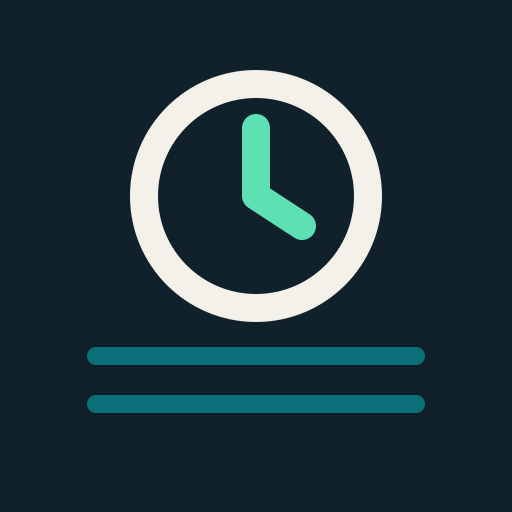
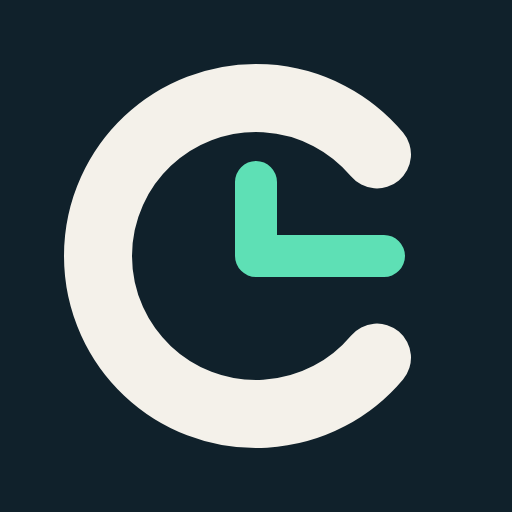
0.6.2: nuova icona, la C-orologio
- La C di ClockWork è un quadrante aperto: arco carta su inchiostro, la
  lancetta dei minuti (menta) esce dall'apertura. Sostituisce l'orologio
  con le corsie, troppo simile a un'app Orologio qualsiasi.
- icon.svg è la sorgente; icon-192/512 e apple-touch-icon ne sono il rendering.
- favicon.svg è la stessa C con tratti appena più spessi (arco 76, lancette 48
  su 512) e angoli arrotondati, leggibile a 16px.
- icon-maskable-512.png: la C all'86%, dentro il cerchio sicuro di Android.

Claude-Session: https://claude.ai/code/session_01ExZU6gBQMKCBRzjhQvUXD3

Changed region(s): [[0.125, 0.125, 0.8438, 0.875]]

diff --git a/vite.config.ts b/vite.config.ts
@@ -33,7 +33,7 @@ export default defineConfig({
         icons: [
           { src: 'icon-192.png', sizes: '192x192', type: 'image/png' },
           { src: 'icon-512.png', sizes: '512x512', type: 'image/png' },
-          // disegno all'80%: le corsie restano dentro il cerchio sicuro che Android non ritaglia
+          // C-orologio all'86%: arriva a 165px dal centro, ben dentro il cerchio sicuro (205px) che Android non ritaglia
           { src: 'icon-maskable-512.png', sizes: '512x512', type: 'image/png', purpose: 'maskable' },
         ],
       },
